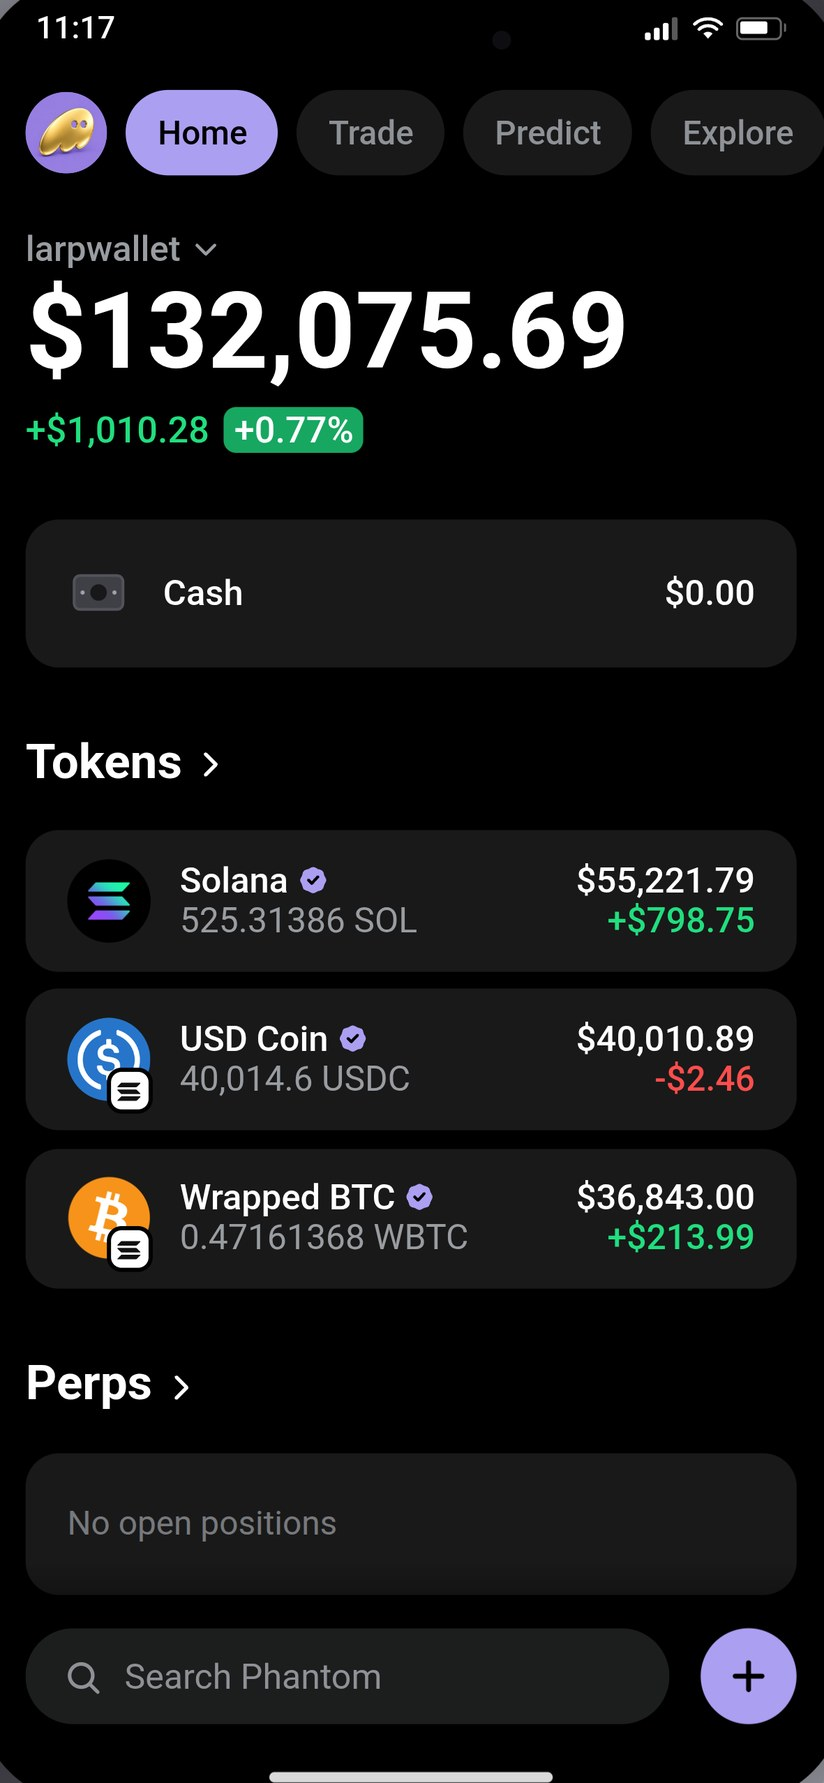
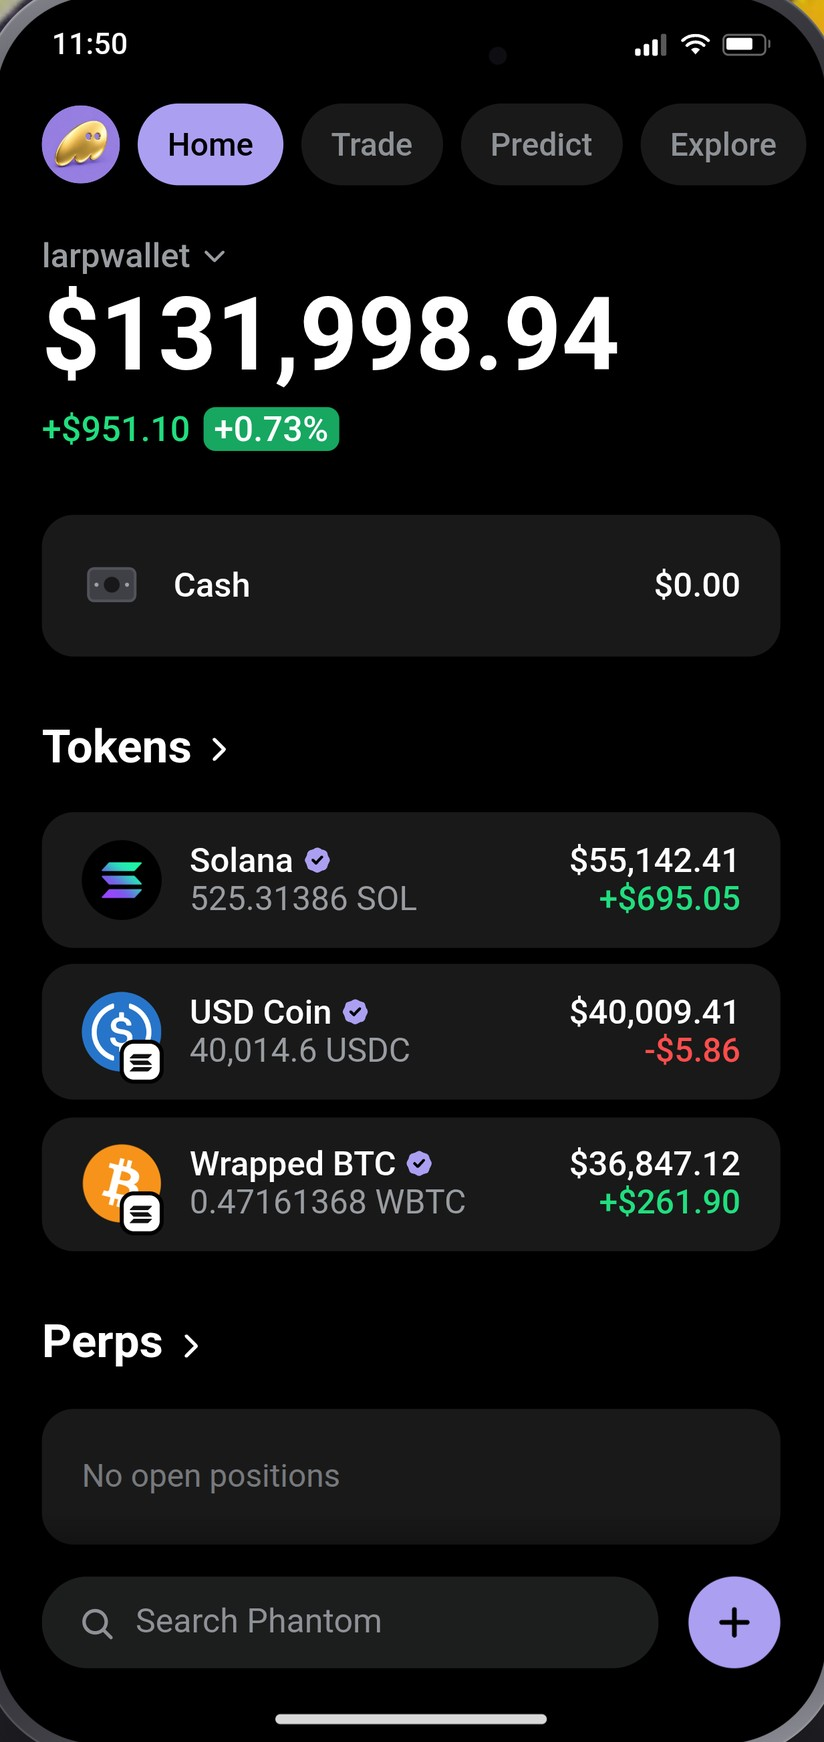
Drop the hero blur, and stop the preview clipping its own content
The app really was escaping the frame this time, and it was my capture at
fault, not the layout. I had trimmed 26px off each side of the source
screenshot to remove what looked like bezel bleed. That "bleed" was just
the screen's own 50px corner radius showing the rail behind it — and the
trim was eating real pixels, which is why the battery icon and the Explore
tab were sliced off at the edges. Recaptured whole: the preview clips at a
larger proportional radius than the source, so those corners were always
going to be covered.

Both device frames now share one rail treatment, lifted well clear of
black so it reads on all four sides against a black screen, with a
highlight along the top edge, a dark line along the bottom, and a hairline
at the screen boundary itself. Desktop and phone are the same object at
two sizes.

The hero's blurred fill is gone. It was there to let a 360x550 portrait
film fill a card three times as wide, but two different crops of the same
thing playing at once reads as a mistake and the blur muddied the whole
card. A plain radial ground carries the space instead, and the film plays
sharp and uncropped where it always did.

diff --git a/components/Landing.tsx b/components/Landing.tsx
@@ -687,20 +687,20 @@ function HeroVideo({
     >
       {on === "desktop" ? (
         <>
-          {/* The film is 360x550 portrait. Cover-cropping it into a card three
-              times as wide threw away most of the frame and left a hard zoom on
-              whatever was left. So it plays at its own aspect, and a blurred,
-              oversized copy fills the rest of the card behind it — the frame
-              stays whole and the colour still reaches the edges. */}
-          <video {...film} className="absolute inset-0 h-full w-full scale-125 object-cover blur-[32px] brightness-[1.5] saturate-[1.4]" />
+          {/* The film is 360x550 portrait and the card is three times as wide,
+              so it plays at its own aspect rather than being cover-cropped to
+              fit. What fills the rest is a plain ground, not a blurred copy of
+              the film — two different crops of the same thing playing at once
+              read as a mistake, and the blur muddied the card. */}
+          <div className="absolute inset-0 bg-[radial-gradient(120%_100%_at_78%_50%,#2a1b55_0%,#1b1236_45%,#141026_100%)]" />
           <video
             {...film}
-            className="absolute inset-y-0 right-[3%] h-full w-auto max-w-none brightness-[1.35] saturate-[1.25]"
+            className="absolute inset-y-0 right-[2%] h-full w-auto max-w-none brightness-[1.3] saturate-[1.2]"
             // Feathered on the left, or the sharp copy meets the blurred fill
             // on a hard vertical seam.
             style={{
-              maskImage: "linear-gradient(to right, transparent, #000 22%)",
-              WebkitMaskImage: "linear-gradient(to right, transparent, #000 22%)",
+              maskImage: "linear-gradient(to right, transparent, #000 26%)",
+              WebkitMaskImage: "linear-gradient(to right, transparent, #000 26%)",
             }}
           />
         </>
@@ -773,14 +773,14 @@ function PhonePreview() {
               bottom edges vanish — it read as the app spilling out of the
               frame. The screen carries a light hairline of its own now, so the
               boundary is drawn on all four sides regardless of the gradient. */}
-          <div className="rounded-[38px] bg-[linear-gradient(158deg,#9a9aa2_0%,#54545c_9%,#33333a_26%,#26262b_52%,#33333a_74%,#5c5c64_92%,#a2a2aa_100%)] p-[7px] shadow-[0_0_0_1px_rgba(255,255,255,0.10)_inset,0_1px_1px_rgba(255,255,255,0.22)_inset,0_30px_60px_-24px_rgba(60,49,91,0.55)]">
-            <div className="relative overflow-hidden rounded-[32px] bg-black shadow-[0_0_0_1px_rgba(255,255,255,0.16)]">
+          <div className="rounded-[40px] bg-[linear-gradient(158deg,#b4b4bd_0%,#6b6b74_8%,#3a3a42_24%,#2a2a31_50%,#3a3a42_74%,#74747e_92%,#bcbcc6_100%)] p-[7px] shadow-[0_0_0_1px_rgba(255,255,255,0.16)_inset,0_1.5px_1px_rgba(255,255,255,0.30)_inset,0_-1px_1px_rgba(0,0,0,0.5)_inset,0_26px_50px_-20px_rgba(60,49,91,0.5)]">
+            <div className="relative overflow-hidden rounded-[34px] bg-black shadow-[0_0_0_1px_rgba(255,255,255,0.14)]">
               {/* eslint-disable-next-line @next/next/no-img-element */}
               <img
                 src="/brand/app-preview.jpg"
                 alt="the larp wallet home screen, showing a portfolio balance"
                 width={824}
-                height={1783}
+                height={1742}
                 className="block h-auto w-full"
               />
             </div>

diff --git a/components/PhoneFrame.tsx b/components/PhoneFrame.tsx
@@ -50,8 +50,8 @@ export function PhoneFrame({ children }: { children: React.ReactNode }) {
           // device shell
           "lg:absolute lg:left-0 lg:top-0 lg:h-[892px] lg:w-[432px] lg:origin-top-left lg:rounded-[60px] lg:p-[10px]",
           "lg:[transform:scale(var(--s))]",
-          "lg:bg-[linear-gradient(158deg,#8e8e96_0%,#4a4a51_9%,#26262b_26%,#1c1c20_52%,#26262b_74%,#54545c_92%,#9a9aa2_100%)]",
-          "lg:shadow-[0_0_0_1px_rgba(255,255,255,0.10)_inset,0_1px_1px_rgba(255,255,255,0.22)_inset,0_50px_110px_-28px_rgba(0,0,0,0.95),0_0_90px_-30px_rgba(171,159,242,0.45)]",
+          "lg:bg-[linear-gradient(158deg,#b4b4bd_0%,#6b6b74_8%,#3a3a42_24%,#2a2a31_50%,#3a3a42_74%,#74747e_92%,#bcbcc6_100%)]",
+          "lg:shadow-[0_0_0_1px_rgba(255,255,255,0.16)_inset,0_1.5px_1px_rgba(255,255,255,0.30)_inset,0_-1px_1px_rgba(0,0,0,0.5)_inset,0_50px_110px_-28px_rgba(0,0,0,0.95),0_0_90px_-30px_rgba(171,159,242,0.45)]",
         ].join(" ")}
       >
         {/* side buttons */}
@@ -64,7 +64,7 @@ export function PhoneFrame({ children }: { children: React.ReactNode }) {
         <div
           className={[
             "relative isolate bg-black",
-            "lg:h-full lg:overflow-hidden lg:rounded-[50px] lg:shadow-[0_0_0_2px_#000]",
+            "lg:h-full lg:overflow-hidden lg:rounded-[50px] lg:shadow-[0_0_0_1px_rgba(255,255,255,0.14),0_0_0_3px_#000]",
             "lg:[transform:translateZ(0)]",
             "lg:[--status-h:44px] lg:[--safe-b:22px]",
           ].join(" ")}
